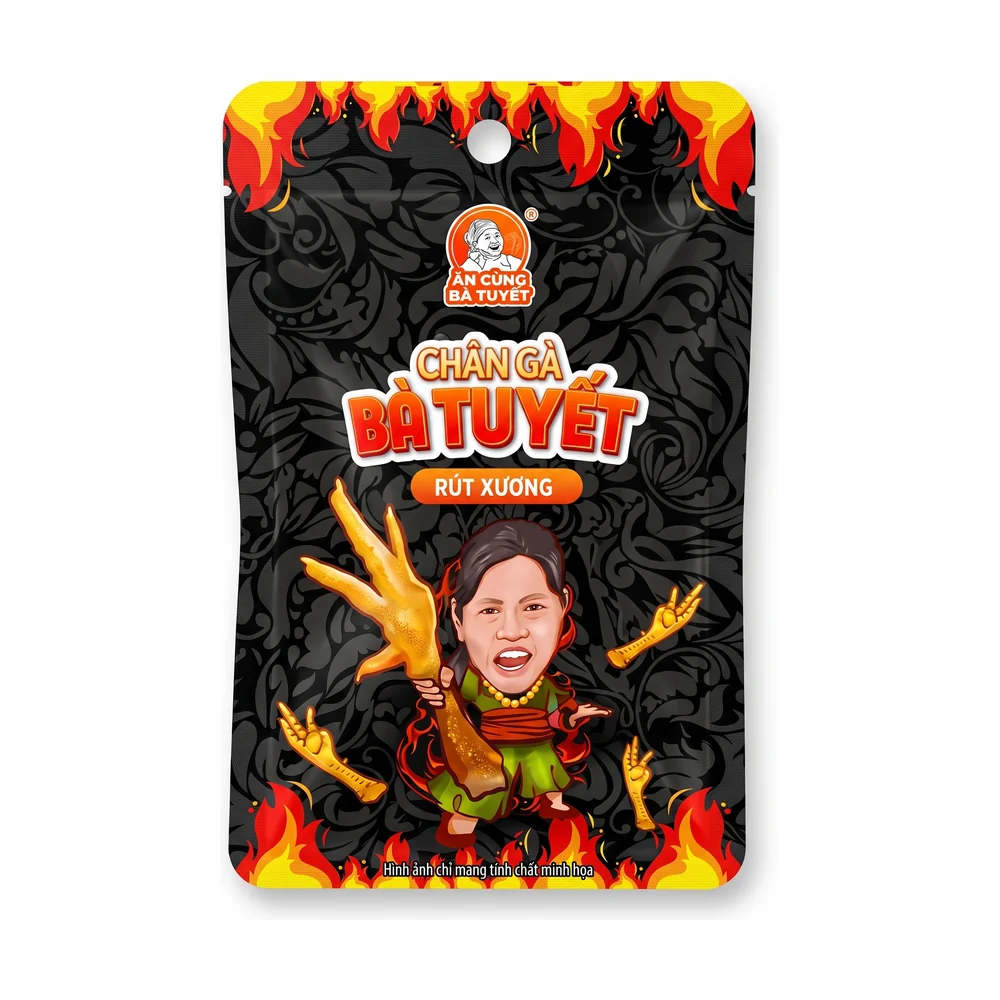
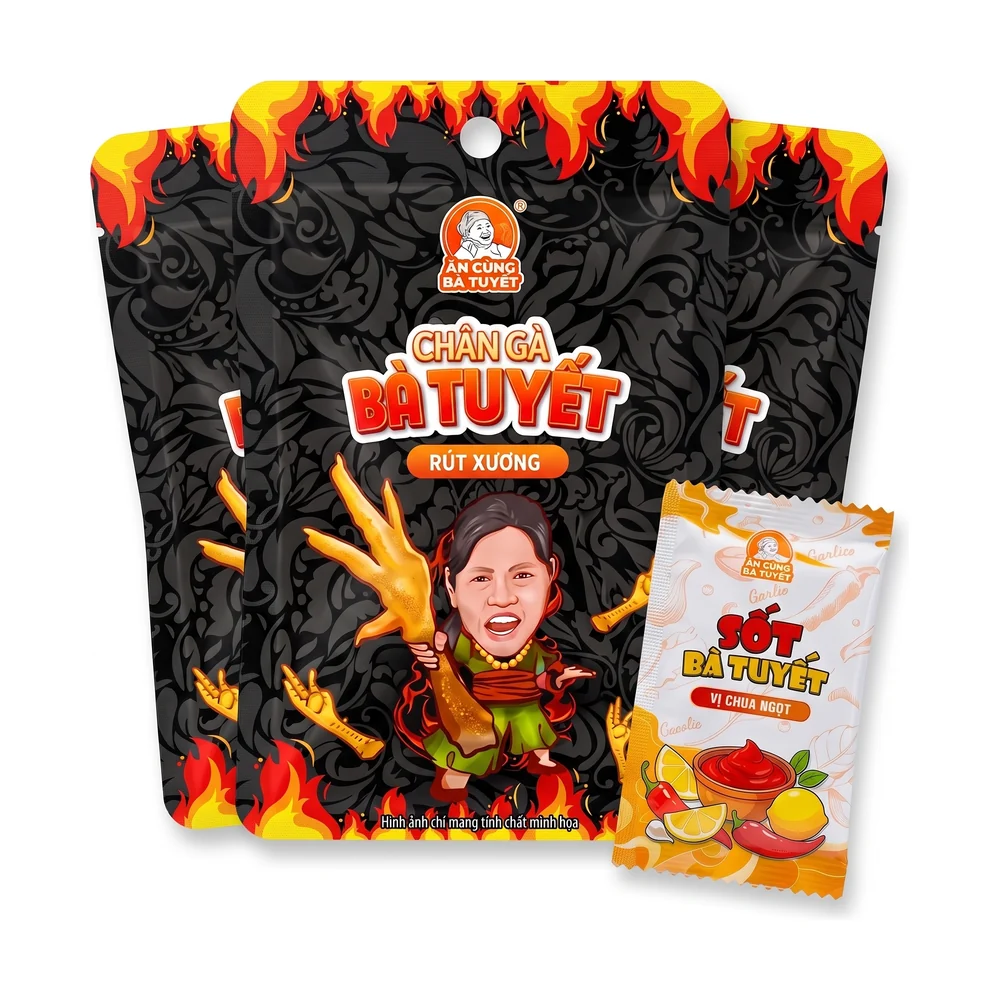
review(2549225-chan-ga): 1 products — 0 keep, 1 fixed, 0 need photo, 0 asked
66369104 shown as the real 3-pouch + sauce pack from the owner's photo.

Claude-Session: https://claude.ai/code/session_01DMTF5GjS3P9om8RxKa1WuX

diff --git a/STATUS.md b/STATUS.md
@@ -2,7 +2,7 @@
 
 > Sinh tự động bởi `node tools/status.mjs`. **Không sửa tay.** Nguồn sự thật là `meta.json` của từng SP.
 
-Tổng 2448 SP · đã xem 2448 (100%) · xong 1099 · chờ chủ duyệt 1001 · cần chụp 348 · hỏi chủ 0
+Tổng 2448 SP · đã xem 2448 (100%) · xong 1099 · chờ chủ duyệt 1002 · cần chụp 347 · hỏi chủ 0
 
 Thứ tự làm: từ trên xuống (doanh số 90 ngày giảm dần). `xong` = giữ nguyên + đã lên web.
 
@@ -62,7 +62,7 @@ Thứ tự làm: từ trên xuống (doanh số 90 ngày giảm dần). `xong` =
 | 52 | Sữa hạt | 0.0tr | 16 | 0 | 0 | 0 | 2 | 0 | 6 | 0 | 8 |
 | 53 | Que cay / tăm cay (latiao) | 0.0tr | 15 | 0 | 0 | 0 | 9 | 0 | 3 | 0 | 3 |
 | 54 | Bánh ngọt | 0.0tr | 15 | 0 | 0 | 0 | 8 | 0 | 2 | 0 | 5 |
-| 55 | Chân gà | 0.0tr | 15 | 0 | 0 | 0 | 7 | 0 | 1 | 0 | 7 |
+| 55 | Chân gà | 0.0tr | 15 | 0 | 0 | 0 | 6 | 0 | 2 | 0 | 7 |
 | 56 | Cocktail lon RTD | 0.0tr | 15 | 0 | 3 | 0 | 0 | 0 | 9 | 0 | 3 |
 | 57 | Sữa chua kiểu Hy Lạp | 0.0tr | 15 | 0 | 0 | 0 | 0 | 0 | 3 | 0 | 12 |
 | 58 | Măng & rau ngâm cay | 0.0tr | 15 | 0 | 0 | 0 | 10 | 0 | 0 | 0 | 5 |

diff --git a/categories/2549225-chan-ga/66369104-chan-ga-rut-xuong-ba-tuyet-26g-26gram-120-goi-th/description.md b/categories/2549225-chan-ga/66369104-chan-ga-rut-xuong-ba-tuyet-26g-26gram-120-goi-th/description.md
@@ -1,4 +1,4 @@
-Chân gà rút xương Bà Tuyết kèm gói sốt, chân gà đã rút xương tẩm vị cay, gói nhỏ ăn vặt tiện lợi.
+Lốc chân gà rút xương Ăn Cùng Bà Tuyết gồm 3 gói chân gà 26 g và 1 gói sốt Bà Tuyết vị chua ngọt, đóng chung trong túi hút chân không. Ăn liền.
 
-Quy cách: 26 g · gói
+Quy cách: lốc 3 gói × 26 g + 1 gói sốt
 Nhà sản xuất/thương hiệu: Ăn Cùng Bà Tuyết
